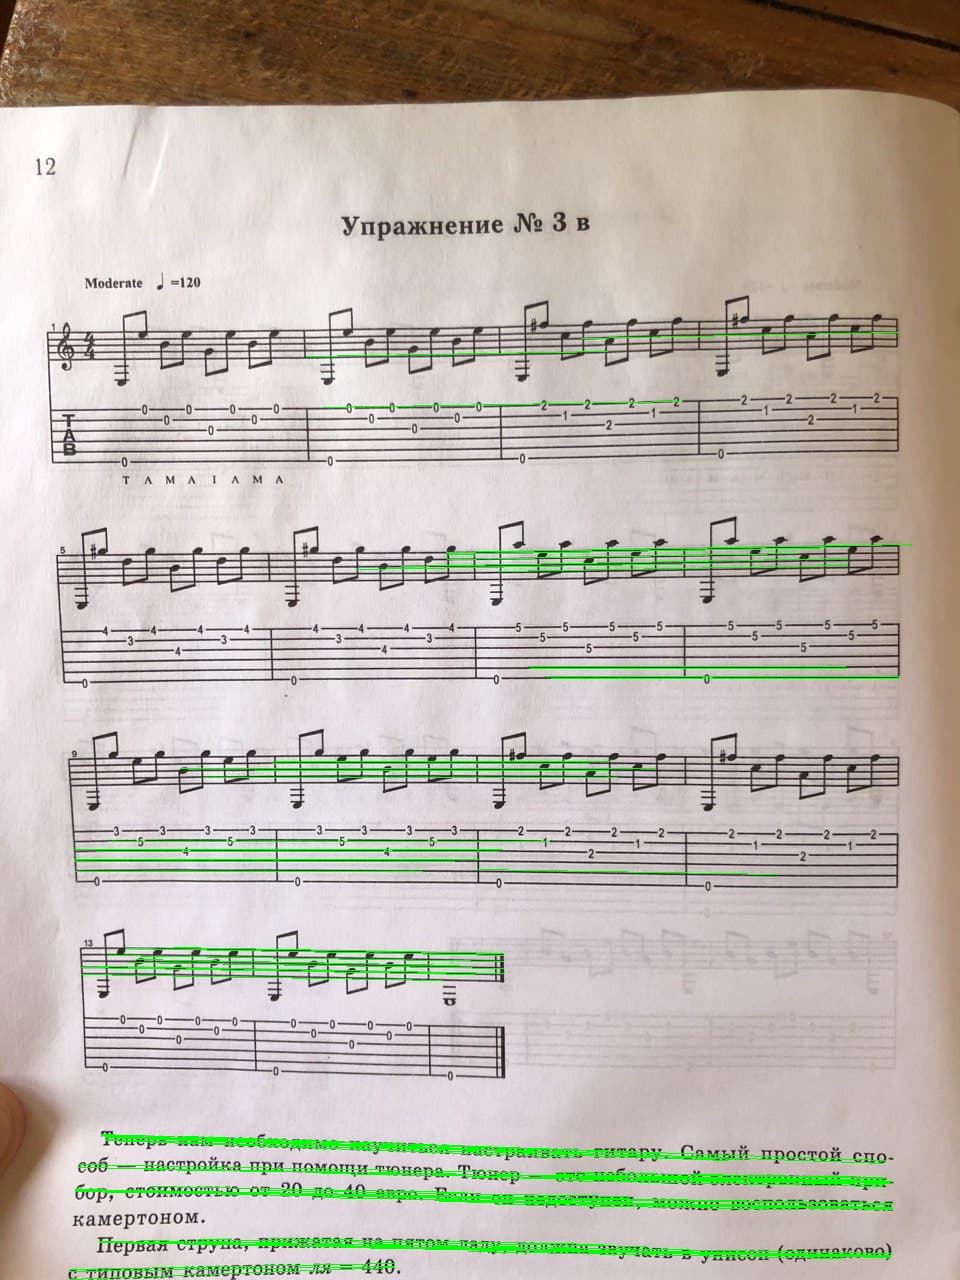
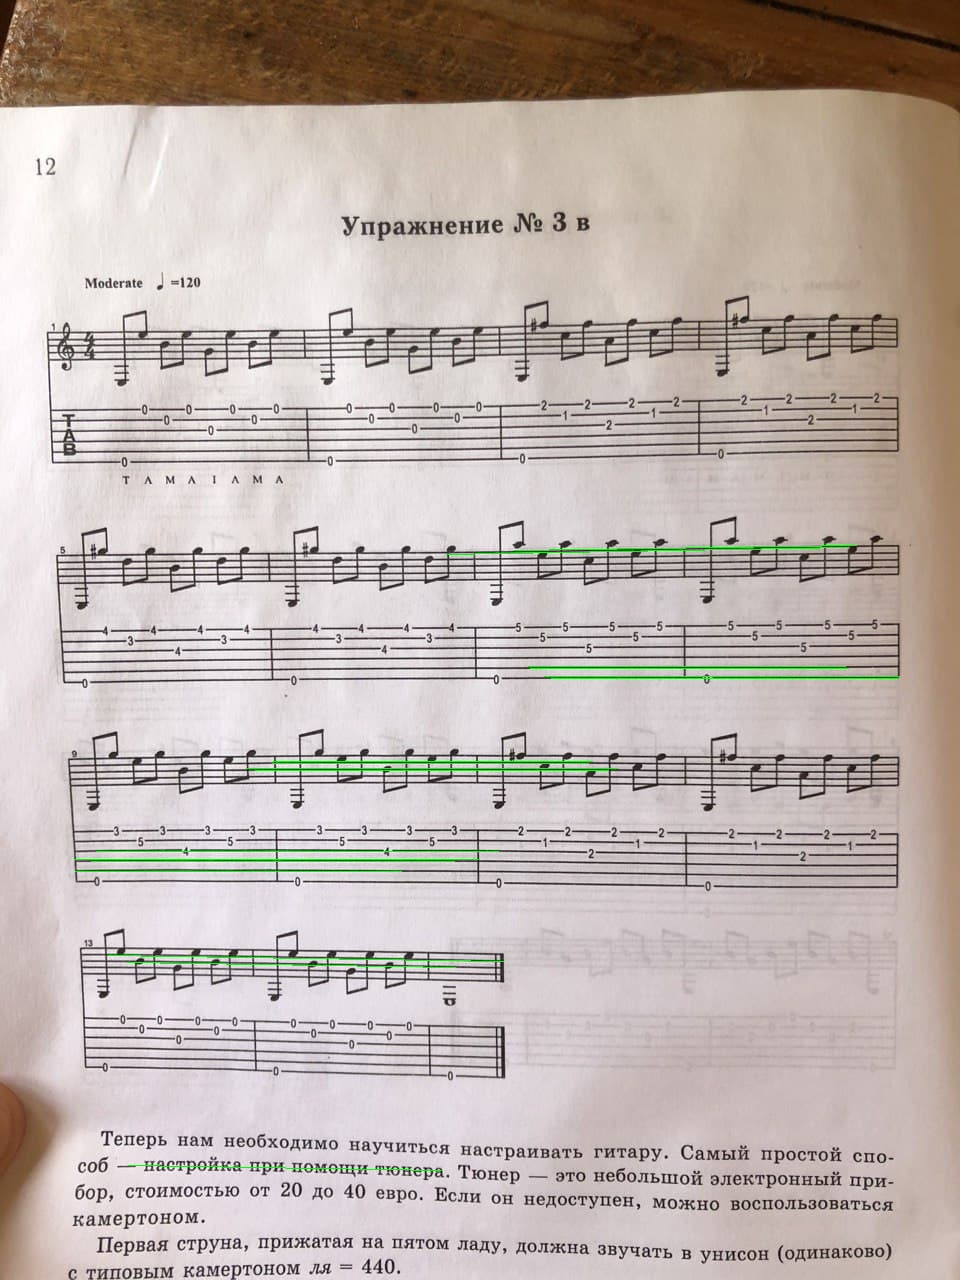
photo stave first commit

diff --git a/practice/stave/ideal_stave/ideal_stave.py b/practice/stave/ideal_stave/ideal_stave.py
@@ -1,18 +1,18 @@
 import cv2
 import numpy as np
 from pathlib import Path
-DATA_PATH = 'data/photo_stale'
+DATA_PATH = 'data'
 
-img = cv2.imread(str(Path(DATA_PATH, 'normal.jpg')))
+img = cv2.imread(str(Path(DATA_PATH, 'ideal.jpg')))
 gray = cv2.cvtColor(img, cv2.COLOR_BGR2GRAY)
 edges = cv2.Canny(gray, 50, 150, apertureSize=3)
 
-min_line_len = 300
-max_line_gap = 20
+min_line_len = 500
+max_line_gap = 10
 lines = cv2.HoughLinesP(edges, 1, np.pi / 180, 100,
                         minLineLength=min_line_len, maxLineGap=max_line_gap)
 
 for x1, y1, x2, y2 in lines[:, 0, :]:
     cv2.line(img, (x1, y1), (x2, y2), (0, 255, 0), 1)
 
-cv2.imwrite(str(Path(DATA_PATH, 'normal_green.jpg')), img)
+cv2.imwrite(str(Path(DATA_PATH, 'ideal_green.jpg')), img)

diff --git a/practice/stave/photo_stave/photo_stave.py b/practice/stave/photo_stave/photo_stave.py
@@ -1,0 +1,18 @@
+import cv2
+import numpy as np
+from pathlib import Path
+DATA_PATH = 'data'
+
+img = cv2.imread(str(Path(DATA_PATH, 'normal.jpg')))
+gray = cv2.cvtColor(img, cv2.COLOR_BGR2GRAY)
+edges = cv2.Canny(gray, 50, 150, apertureSize=3)
+
+min_line_len = 300
+max_line_gap = 10
+lines = cv2.HoughLinesP(edges, 1, np.pi / 180, 100,
+                        minLineLength=min_line_len, maxLineGap=max_line_gap)
+
+for x1, y1, x2, y2 in lines[:, 0, :]:
+    cv2.line(img, (x1, y1), (x2, y2), (0, 255, 0), 1)
+
+cv2.imwrite(str(Path(DATA_PATH, 'normal_green.jpg')), img)
